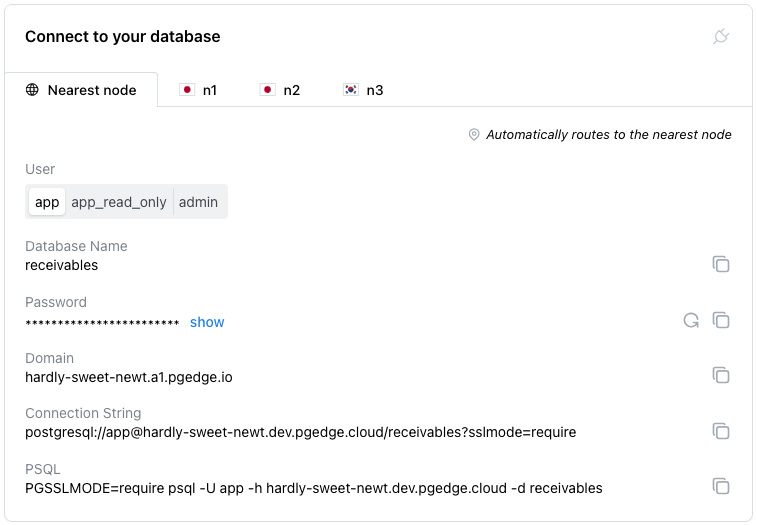
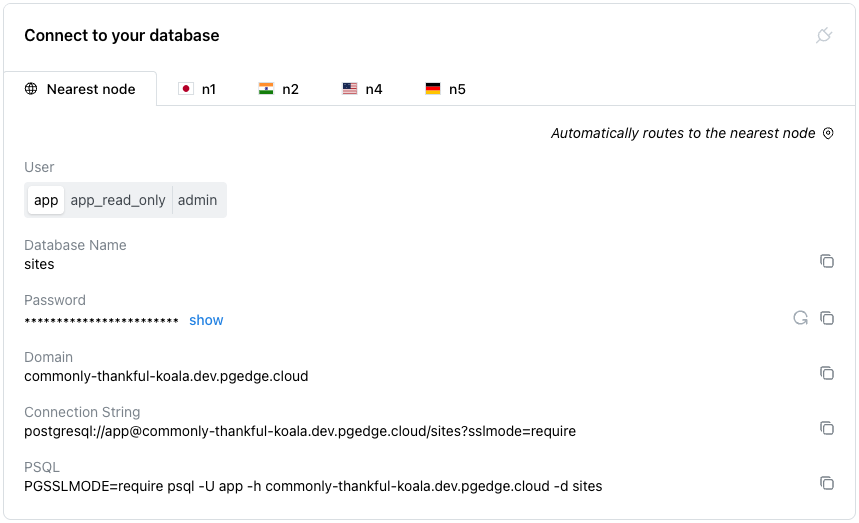
Updates to cloud database pages/screenshots for node selectors/behaviors

diff --git a/docs/cloud/database/manage_db.md b/docs/cloud/database/manage_db.md
@@ -6,7 +6,7 @@ database information in the Cloud console.
 ![pgEdge Database Console](../images/manage_db.png)
 
 Console content is displayed in a series of panes that simplify
-database management; select a pane to review information or perform
+database management; navigate to a pane to review information or perform
 management tasks.
 
 ## The Database Header
@@ -59,9 +59,9 @@ users](https://www.postgresql.org/docs/16/sql-createrole.html).
 ## Connect to your database
 
 The `Connect to your database` pane displays connection information for
-the nodes in your cluster. Select a node (`Nearest node`, `n1`, `n2`, or
-`n3`) and user name to access connection details for a specific
-node/user pair.
+the nodes in your cluster. Select a node tab (from across the top of the pane)
+and `User` (`app`, `app_read_only`, or `admin`) to access connection details
+for a specific node/user pair.
 
 ![Users Pane](../images/connect_to_your_database.png)
 
@@ -70,12 +70,12 @@ to your database, see [Connecting](../connecting/index.md).
 
 ## Password Management
 
-A random password is generated for each pre-defined user when you create
+A random password is generated for each pre-defined `User` when you create
 a database; the same user name/password pair can be used to access the
 database on each node of the cluster. The associated password and password
 management options are located in the `Connect to your database` pane. To
-access the password associated with one of the users (`app`,
-`app_read_only`, or `admin`), select the user name from the `User` field.
+access the password associated with one of the identities (`app`,
+`app_read_only`, or `admin`), select the name with the `User` field.
 
 ![Password management options](../images/password.png)
 

diff --git a/docs/cloud/database/create_db.md b/docs/cloud/database/create_db.md
@@ -3,7 +3,7 @@
 To create a new database, select the `Databases` node in the navigation tree
 control; then, select the `+ New Database` icon located in the upper-right
 corner of the page. When the `Create New Database` dialog opens, use the
-fields on the dialog to define your database.
+fields to define your database.
 
 ![Creating a Database](../images/create_new_db.png)
 
@@ -17,15 +17,16 @@ fields on the dialog to define your database.
 * Use the `PostgreSQL Version` drop-down to select the version of Postgres
   that you would like to install.
 
-Select the cluster you would like to host your new database from the options
-shown under `Select a Cluster`.  Use the `Show Map` toggle to display a map
-of the node locations for the selected cluster.
+Next, the dialog displays your clusters and their deployment regions. Use the
+`Show Map` toggle to display or hide a map of node locations.
 
 ![Creating a Database](../images/create_new_db_cluster_map.png)
 
-The dialog displays your clusters and their deployment regions. Check the box
-in a cluster pane to deploy on that cluster.
- 
+Highlight the cluster you would like to host your new database from the panes
+displayed under `Select a Cluster`.  Then, use the checkboxes in each host's
+selector to indicate if the database should be deployed on that host; remove
+the check if the database should *not* deploy in a specific location.
+
 The `Backup Configuration` pane allows you to customize the configuration you
 wish to use for your Enterprise Edition database backups.
 
